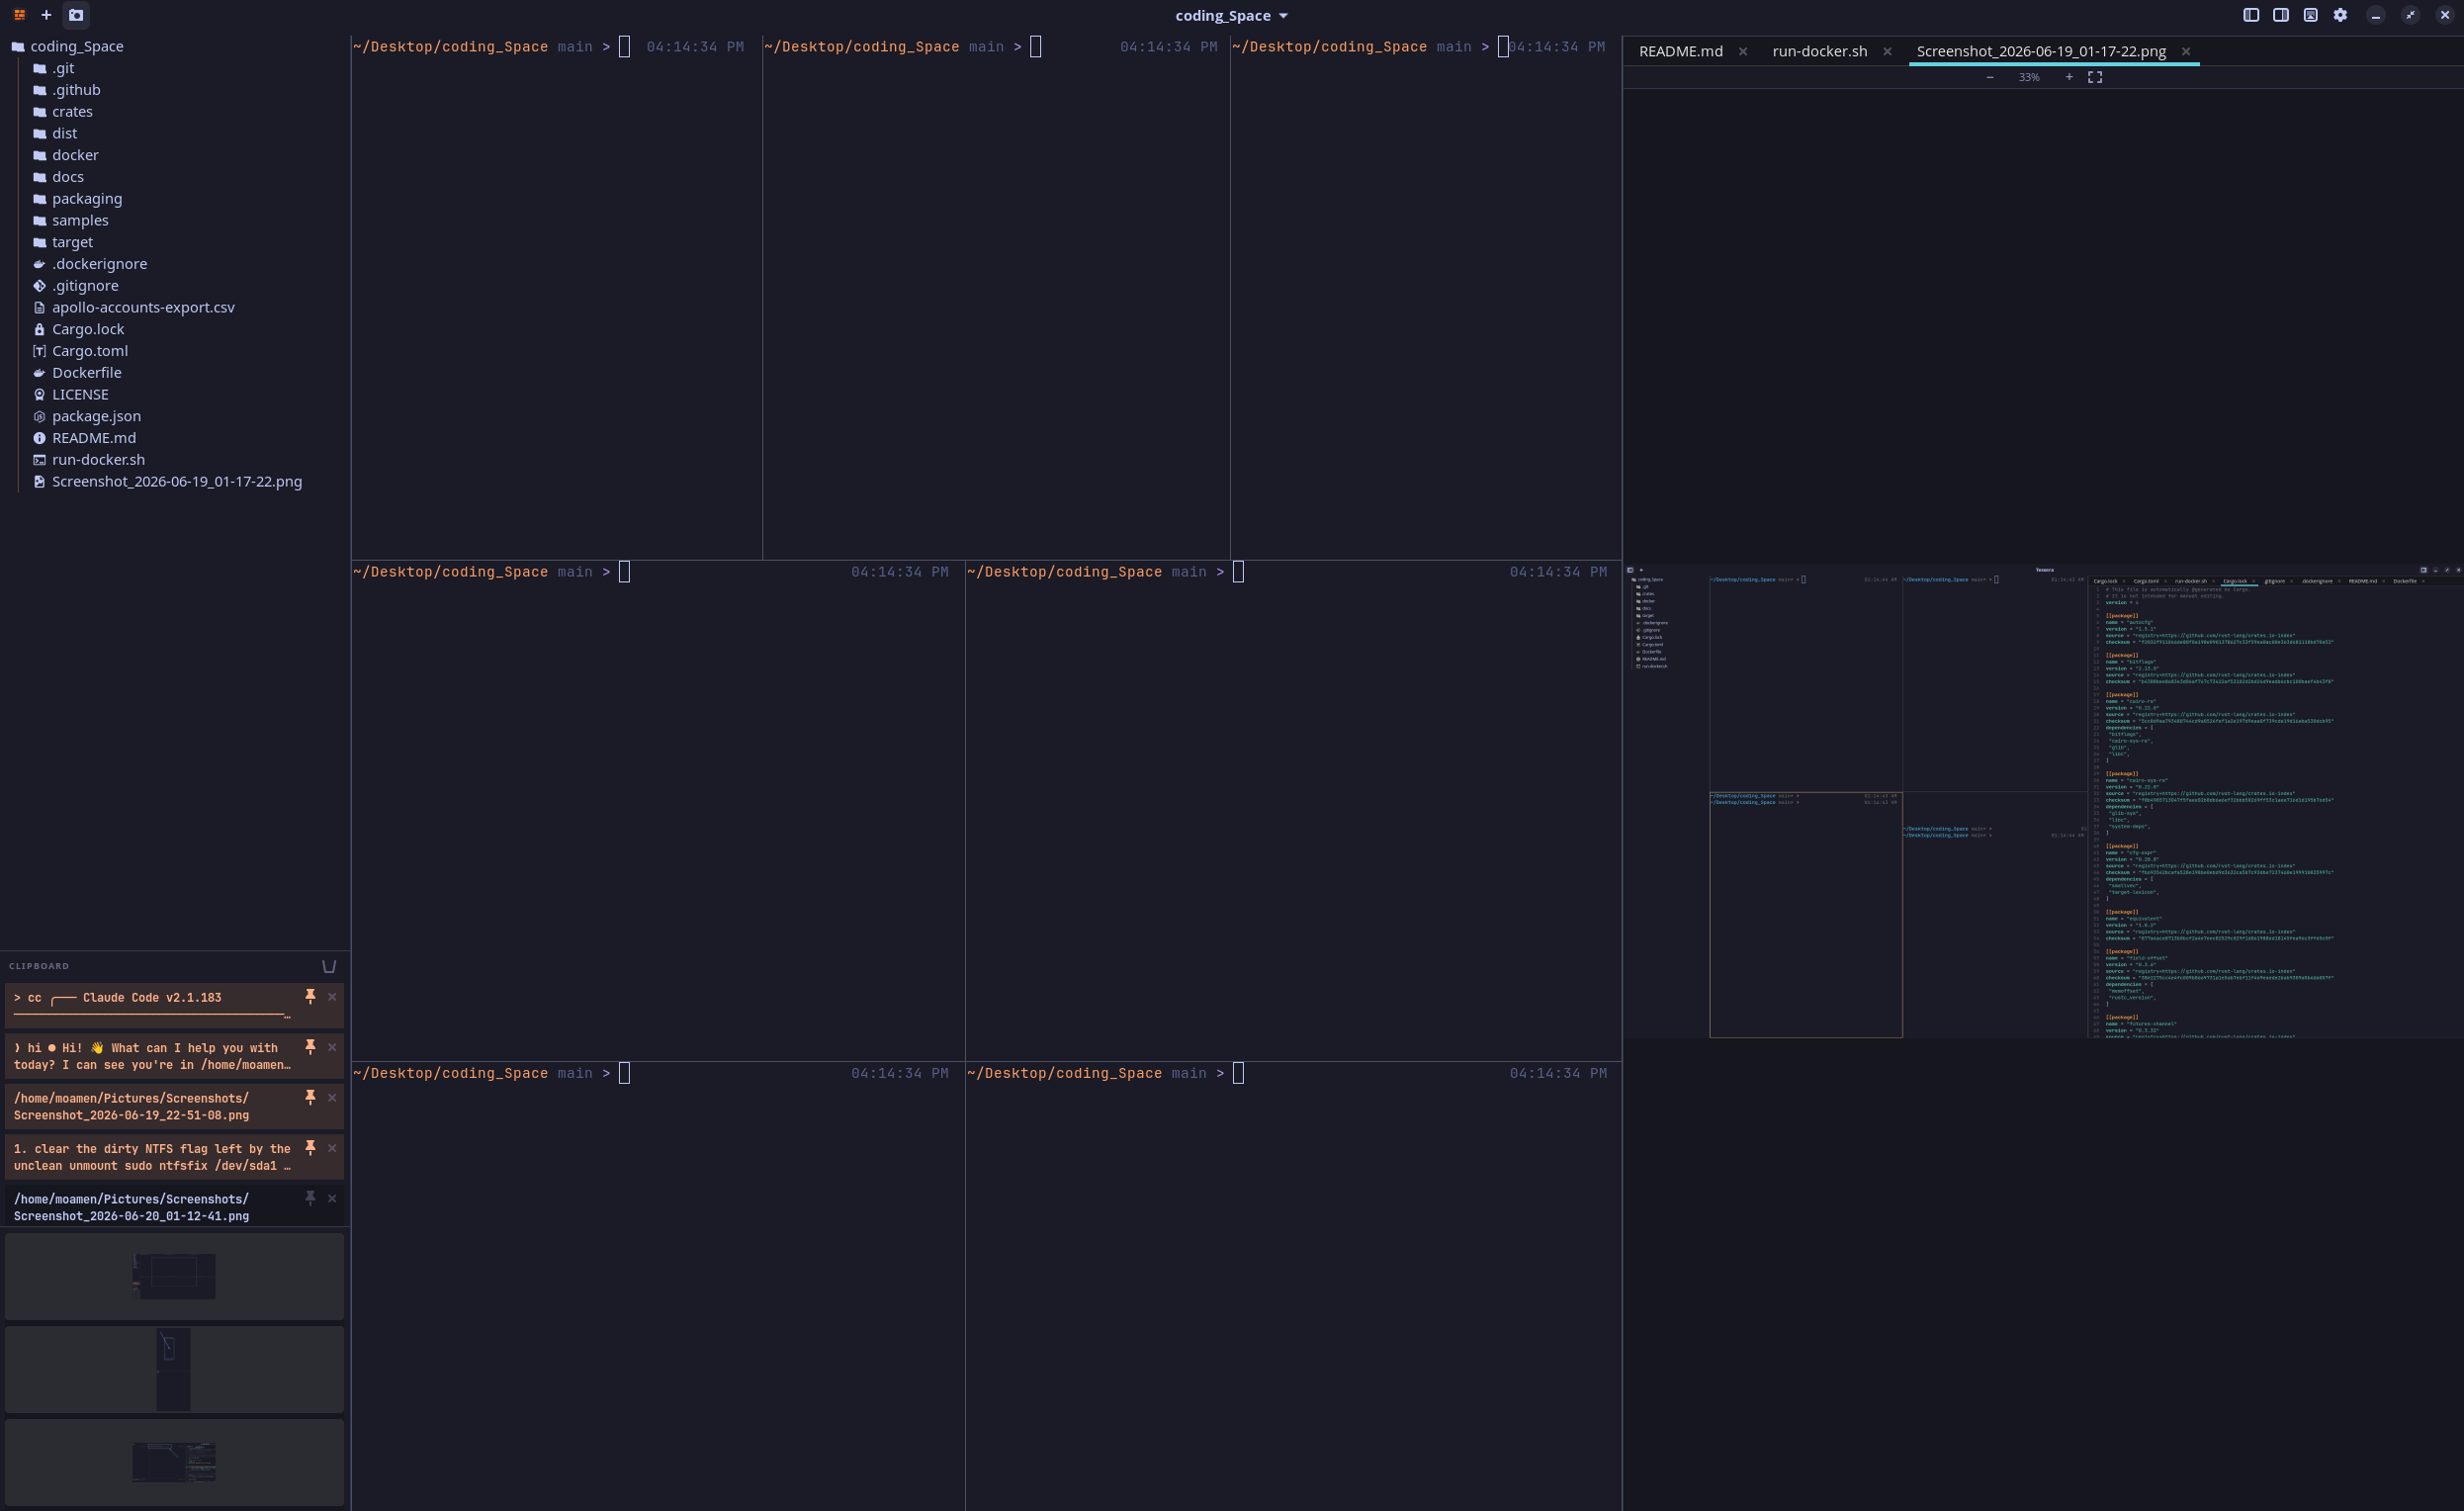
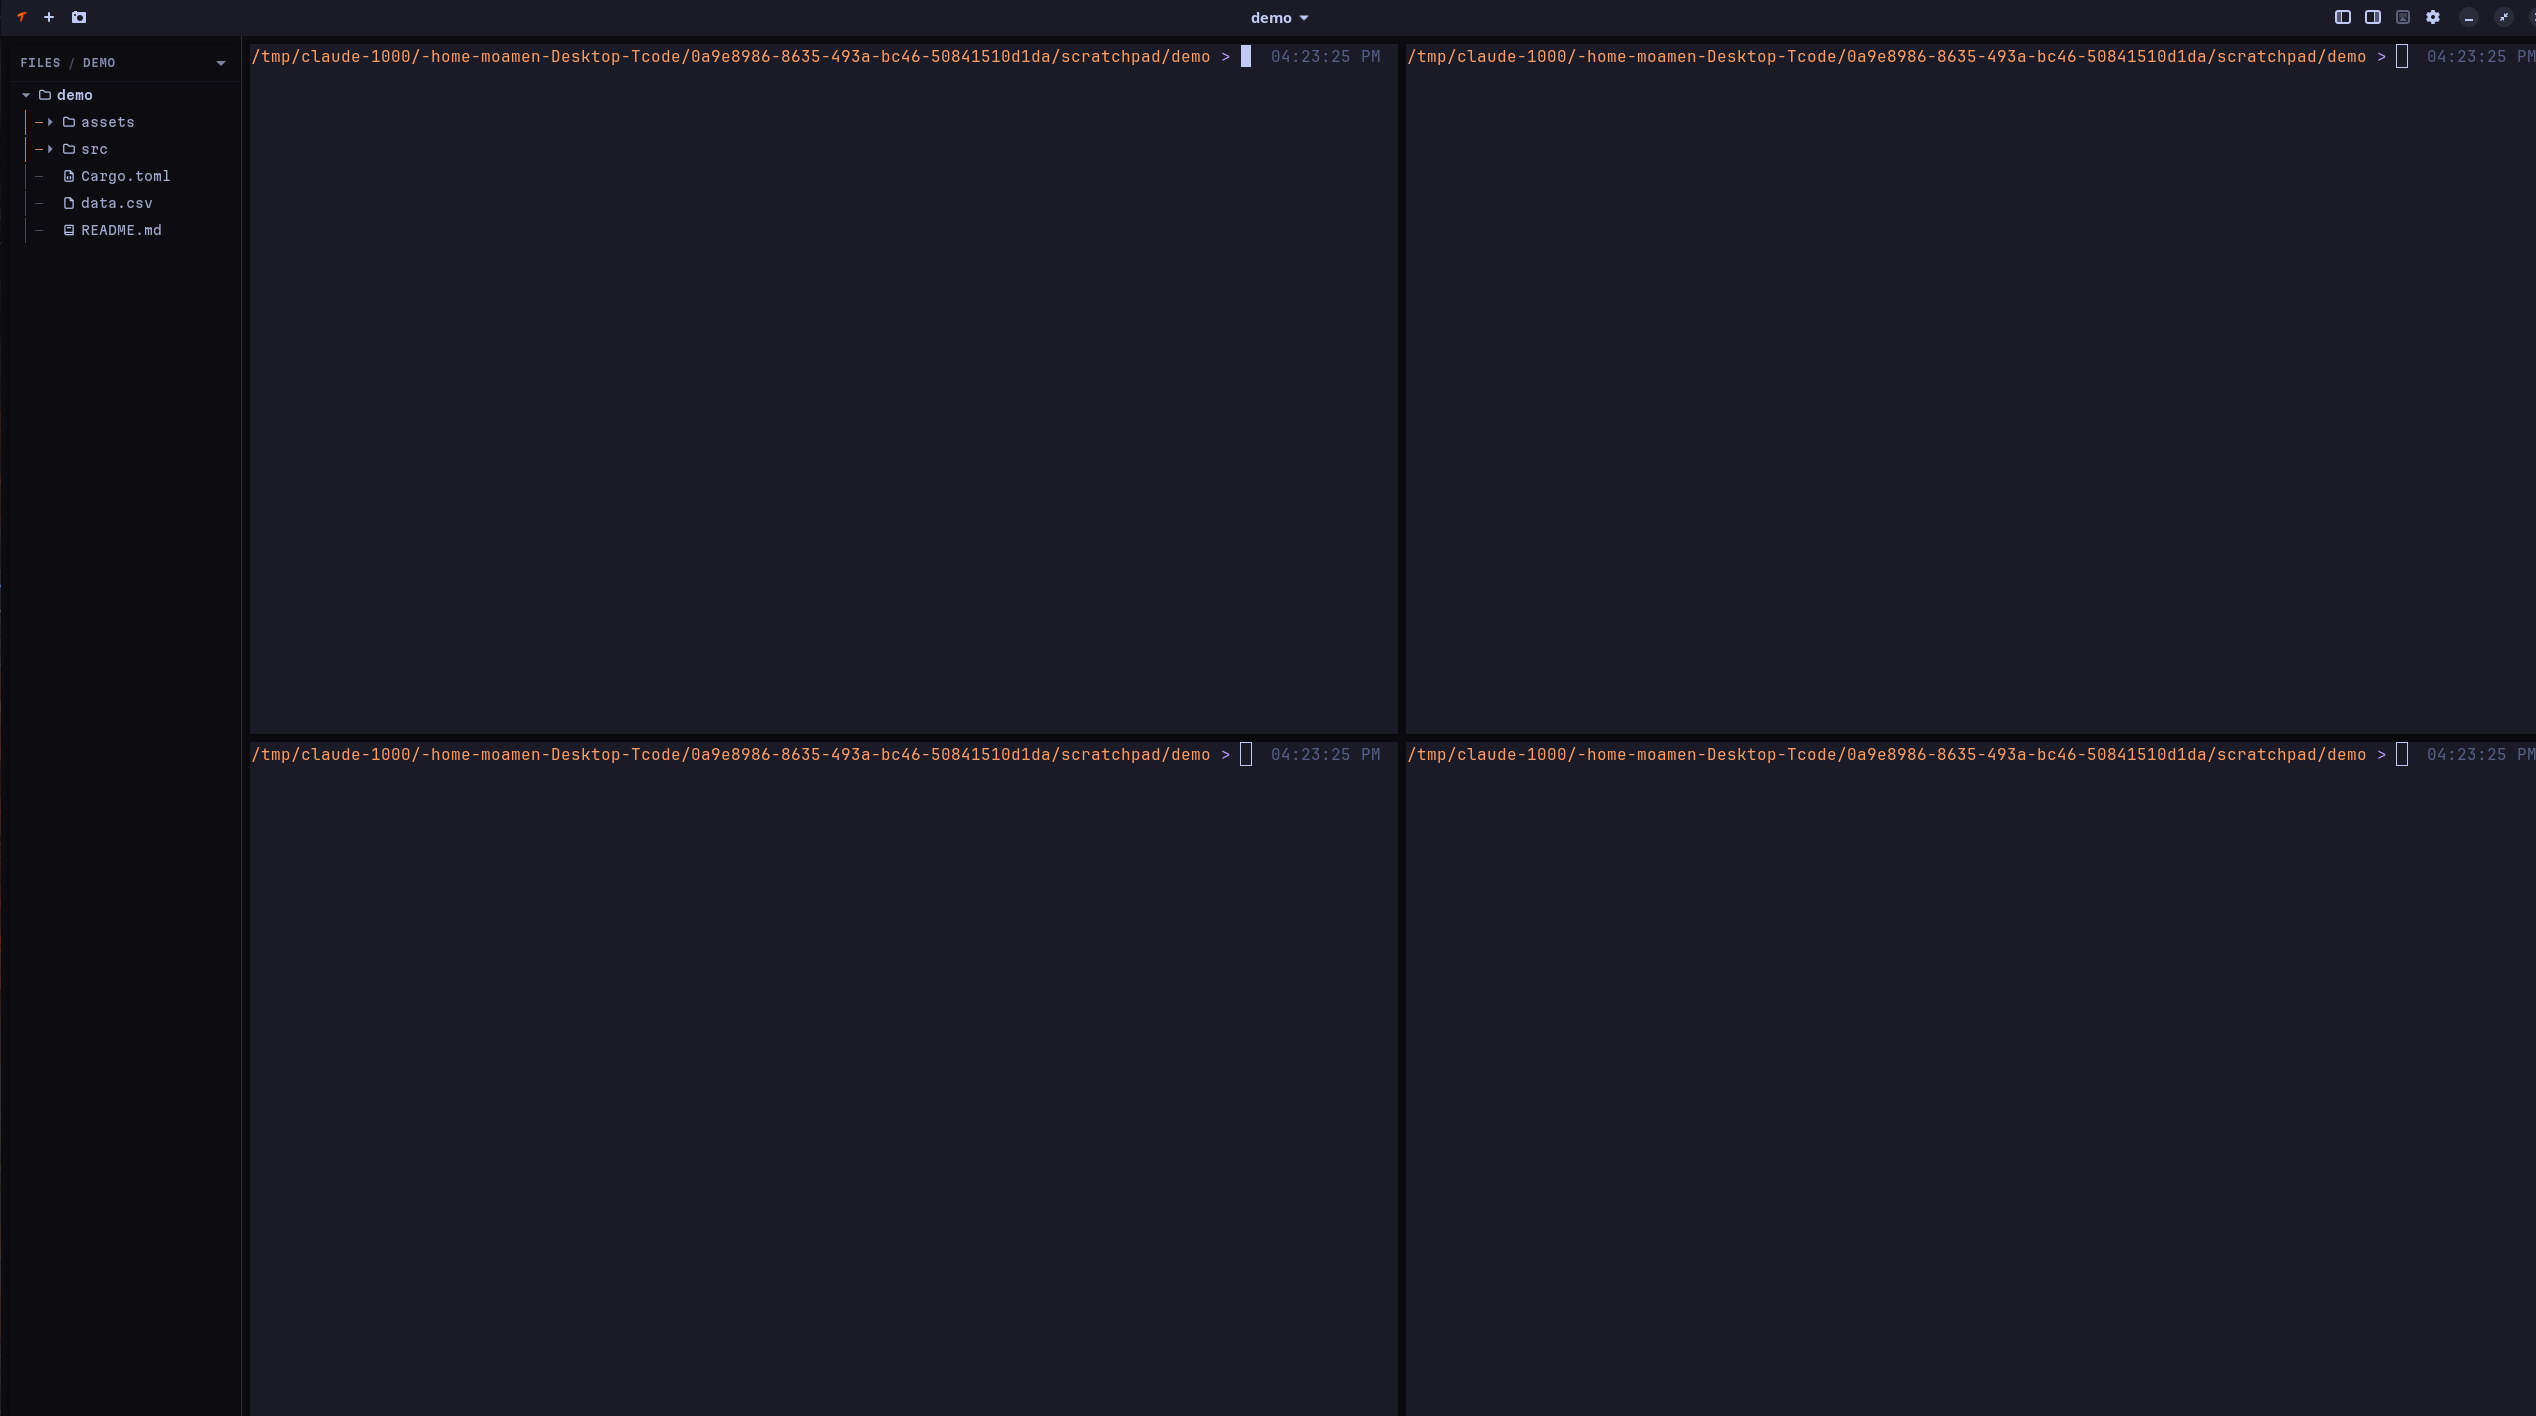
docs: rewrite README for v1.3.0 + privacy-safe screenshots
Rewrite the README around the current terminal-only product: Universal
viewer, Clipboard history, and Frame sections; a complete keybindings table
(Alt+V / Alt+p / Alt+q / Ctrl±0); the clipboard_persist option.

Replace docs/screenshot.png + docs/frame.png: the old captures showed a
private data file in the sidebar tree and the pre-redesign UI. The new shots
are from a clean demo folder. Add docs/clipboard.png (the Alt+V palette).

diff --git a/README.md b/README.md
@@ -7,7 +7,8 @@
 **A fast, borderless tiling-terminal workspace for Linux.**
 
 Pick a number → get that many terminal panes in a balanced grid. Keyboard-driven,
-with a file sidebar and a built-in viewer for code, images, PDFs and office docs.
+with a file sidebar, a universal viewer for code · images · PDFs · office · CSV,
+a searchable clipboard history, and a built-in screenshot annotator.
 
 ![License](https://img.shields.io/badge/license-MIT-F2660C)
 ![Platform](https://img.shields.io/badge/platform-Linux-F2660C?logo=linux&logoColor=white)
@@ -16,7 +17,7 @@ with a file sidebar and a built-in viewer for code, images, PDFs and office docs
 </div>
 
 <p align="center">
-  <img src="docs/screenshot.png" width="820" alt="Tcode: a 2x2 terminal grid with a file sidebar and a tabbed editor">
+  <img src="docs/screenshot.png" width="820" alt="Tcode: a 2×2 terminal grid with the file sidebar">
 </p>
 
 ## Download &amp; install
@@ -48,16 +49,43 @@ tcode 4        # open a 2x2 grid in the current folder
 tcode --help
 ```
 
+Each pane is a plain terminal running your login shell — no surprises, no agents
+started for you. Set a `startup_command` (see [Configuration](#configuration)) if
+you want one to run in every pane on open.
+
+## Universal viewer
+
+Ctrl+click any file path in a terminal — or pick a file in the sidebar — and it
+opens in a tabbed viewer beside your panes: syntax-highlighted **code**,
+**images**, **PDFs**, **office** documents (Word / PowerPoint / Excel, rendered
+through LibreOffice), and **CSV** as a real table. The panel is width-capped so
+it never squeezes the terminals.
+
+## Clipboard history
+
+Every clip you copy is captured into a searchable history. Press **`Alt+V`** for
+the command palette: type to filter, **Enter** to copy a past entry back to the
+clipboard, **pin** the ones you reuse to the top, and **delete** anything you
+don't want kept — each entry remembers when it was captured. History lives in
+memory by default; set `clipboard_persist = true` to keep it across restarts.
+
+<p align="center">
+  <img src="docs/clipboard.png" width="820" alt="Tcode's Alt+V clipboard palette: a searchable list of copied entries with capture times and pin / delete actions">
+</p>
+
 ## Frame — capture &amp; annotate
 
 The titlebar camera grabs any window or region (via the desktop screenshot
 portal), then hands it to **Frame** — a built-in annotation canvas where you draw
 boxes, arrows, freehand pen, highlighter, and text in any color. **Save** exports
-a PNG (also copied to your clipboard) and adds it to the strip at the bottom of
-the sidebar, ready to drag into a terminal.
+a PNG (also copied to your clipboard) and collects it in the screenshots strip
+(toggle with `Alt+P`), ready to drag into a terminal.
+
+A freshly captured shot also floats over the grid as a preview you can reposition
+or dismiss before annotating.
 
 <p align="center">
-  <img src="docs/frame.png" width="820" alt="Frame: a captured Tcode screenshot annotated with boxes, arrows, and text">
+  <img src="docs/frame.png" width="820" alt="Frame annotating a captured screenshot — toolbar and color palette on top, boxes and arrows drawn on the grid, and the screenshots strip down the right edge">
 </p>
 
 ## Keybindings
@@ -67,10 +95,14 @@ the sidebar, ready to drag into a terminal.
 | `Alt+h/j/k/l` or `Alt`+arrow keys | Move focus between panes |
 | `Alt+z` | Zoom the focused pane / restore |
 | `Alt+n` | New terminal (add a pane) |
-| `Alt+b` | Toggle the file sidebar |
-| `Alt+f` | Toggle fullscreen (no titlebar) |
 | `Alt+1` … `Alt+9` | Rebuild the grid with N panes |
+| `Alt+b` | Toggle the file sidebar |
+| `Alt+v` | Clipboard history palette |
+| `Alt+p` | Screenshots strip |
+| `Alt+f` | Toggle fullscreen (no titlebar) |
+| `Alt+q` | Quit |
 | `Ctrl+Shift+C` / `Ctrl+Shift+V` | Copy / paste in the focused terminal |
+| `Ctrl +` / `Ctrl -` / `Ctrl 0` | Zoom the whole UI in / out / reset |
 
 Ctrl+click a path or URL in any terminal to open it; right-click for Copy / Paste.
 
@@ -80,10 +112,11 @@ Optional `~/.config/tcode/config.toml` — every field has a default, so it's on
 there if you want it:
 
 ```toml
-font            = "Martian Mono"   # bundled; or any installed font
-font_size       = 11
-startup_command = ""               # e.g. "claude" to auto-run in every pane
-scale           = 1.0              # whole-UI zoom (0.5–3.0)
+font              = "Martian Mono"   # bundled; or any installed font
+font_size         = 11
+startup_command   = ""               # a command to run in every pane on open, e.g. "tmux"
+clipboard_persist = false            # keep clipboard history across restarts
+scale             = 1.0              # whole-UI zoom (0.5–3.0)
 # [theme] background / foreground / accent / surface / border / palette (Tokyo Night by default)
 ```
 